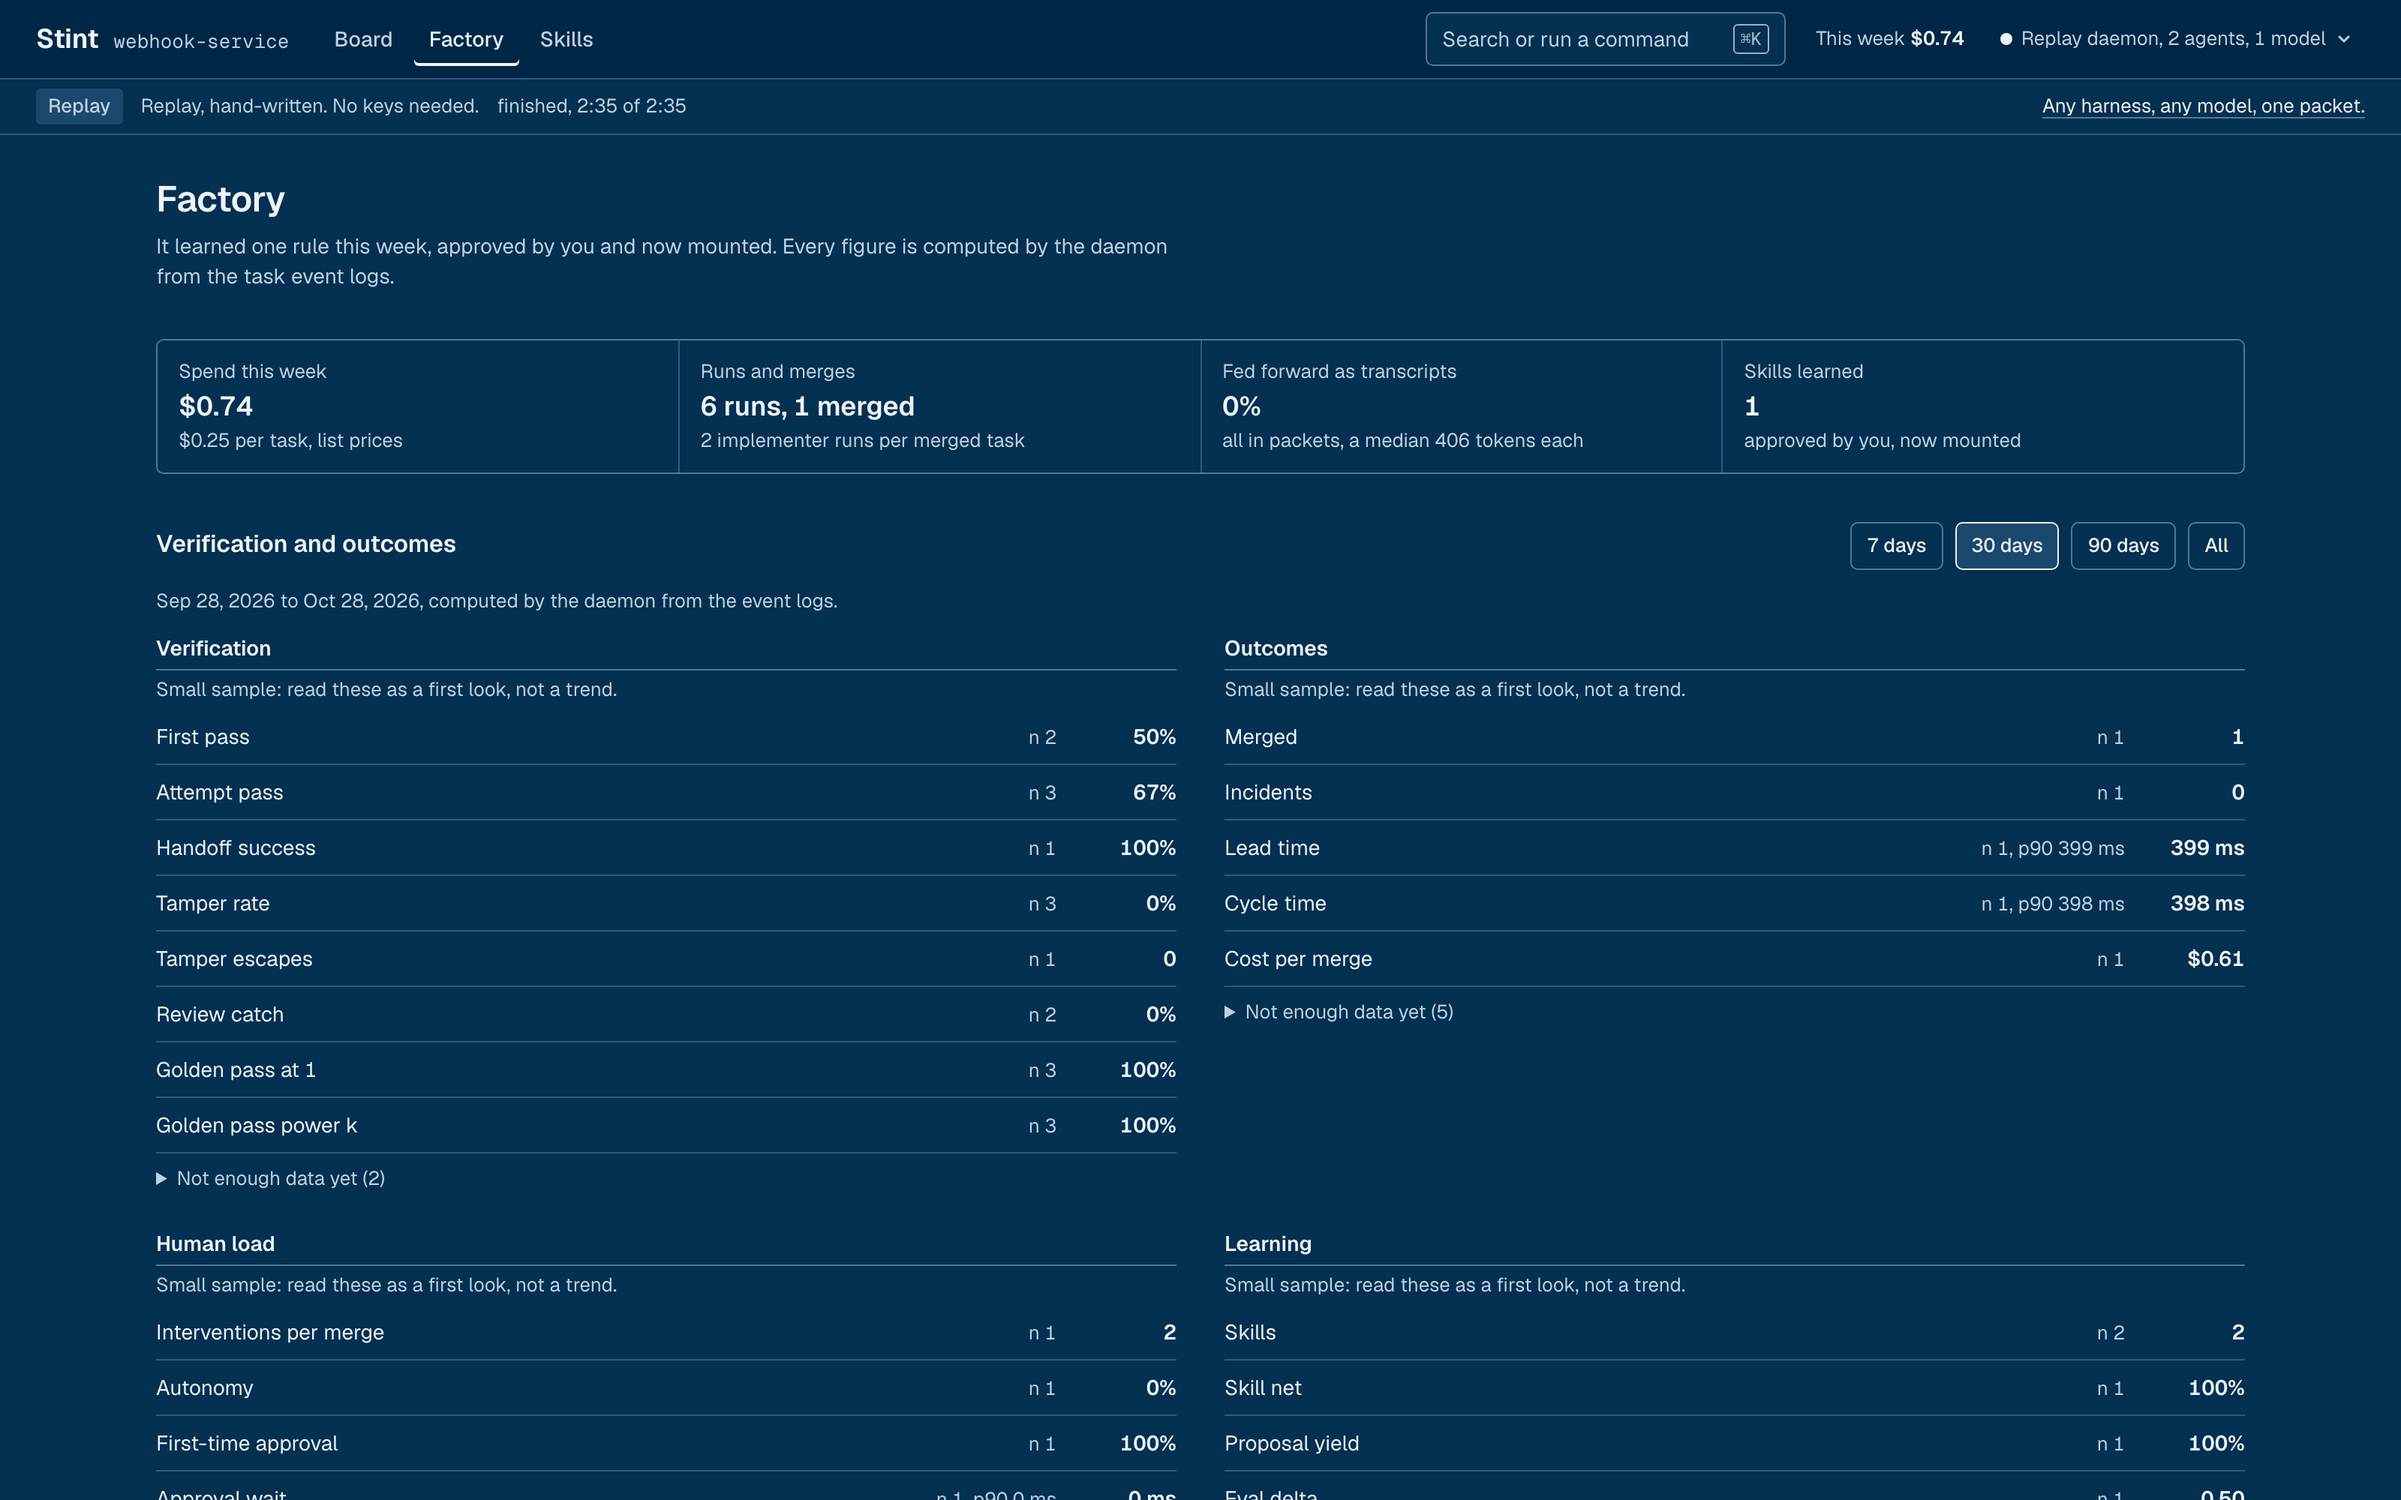
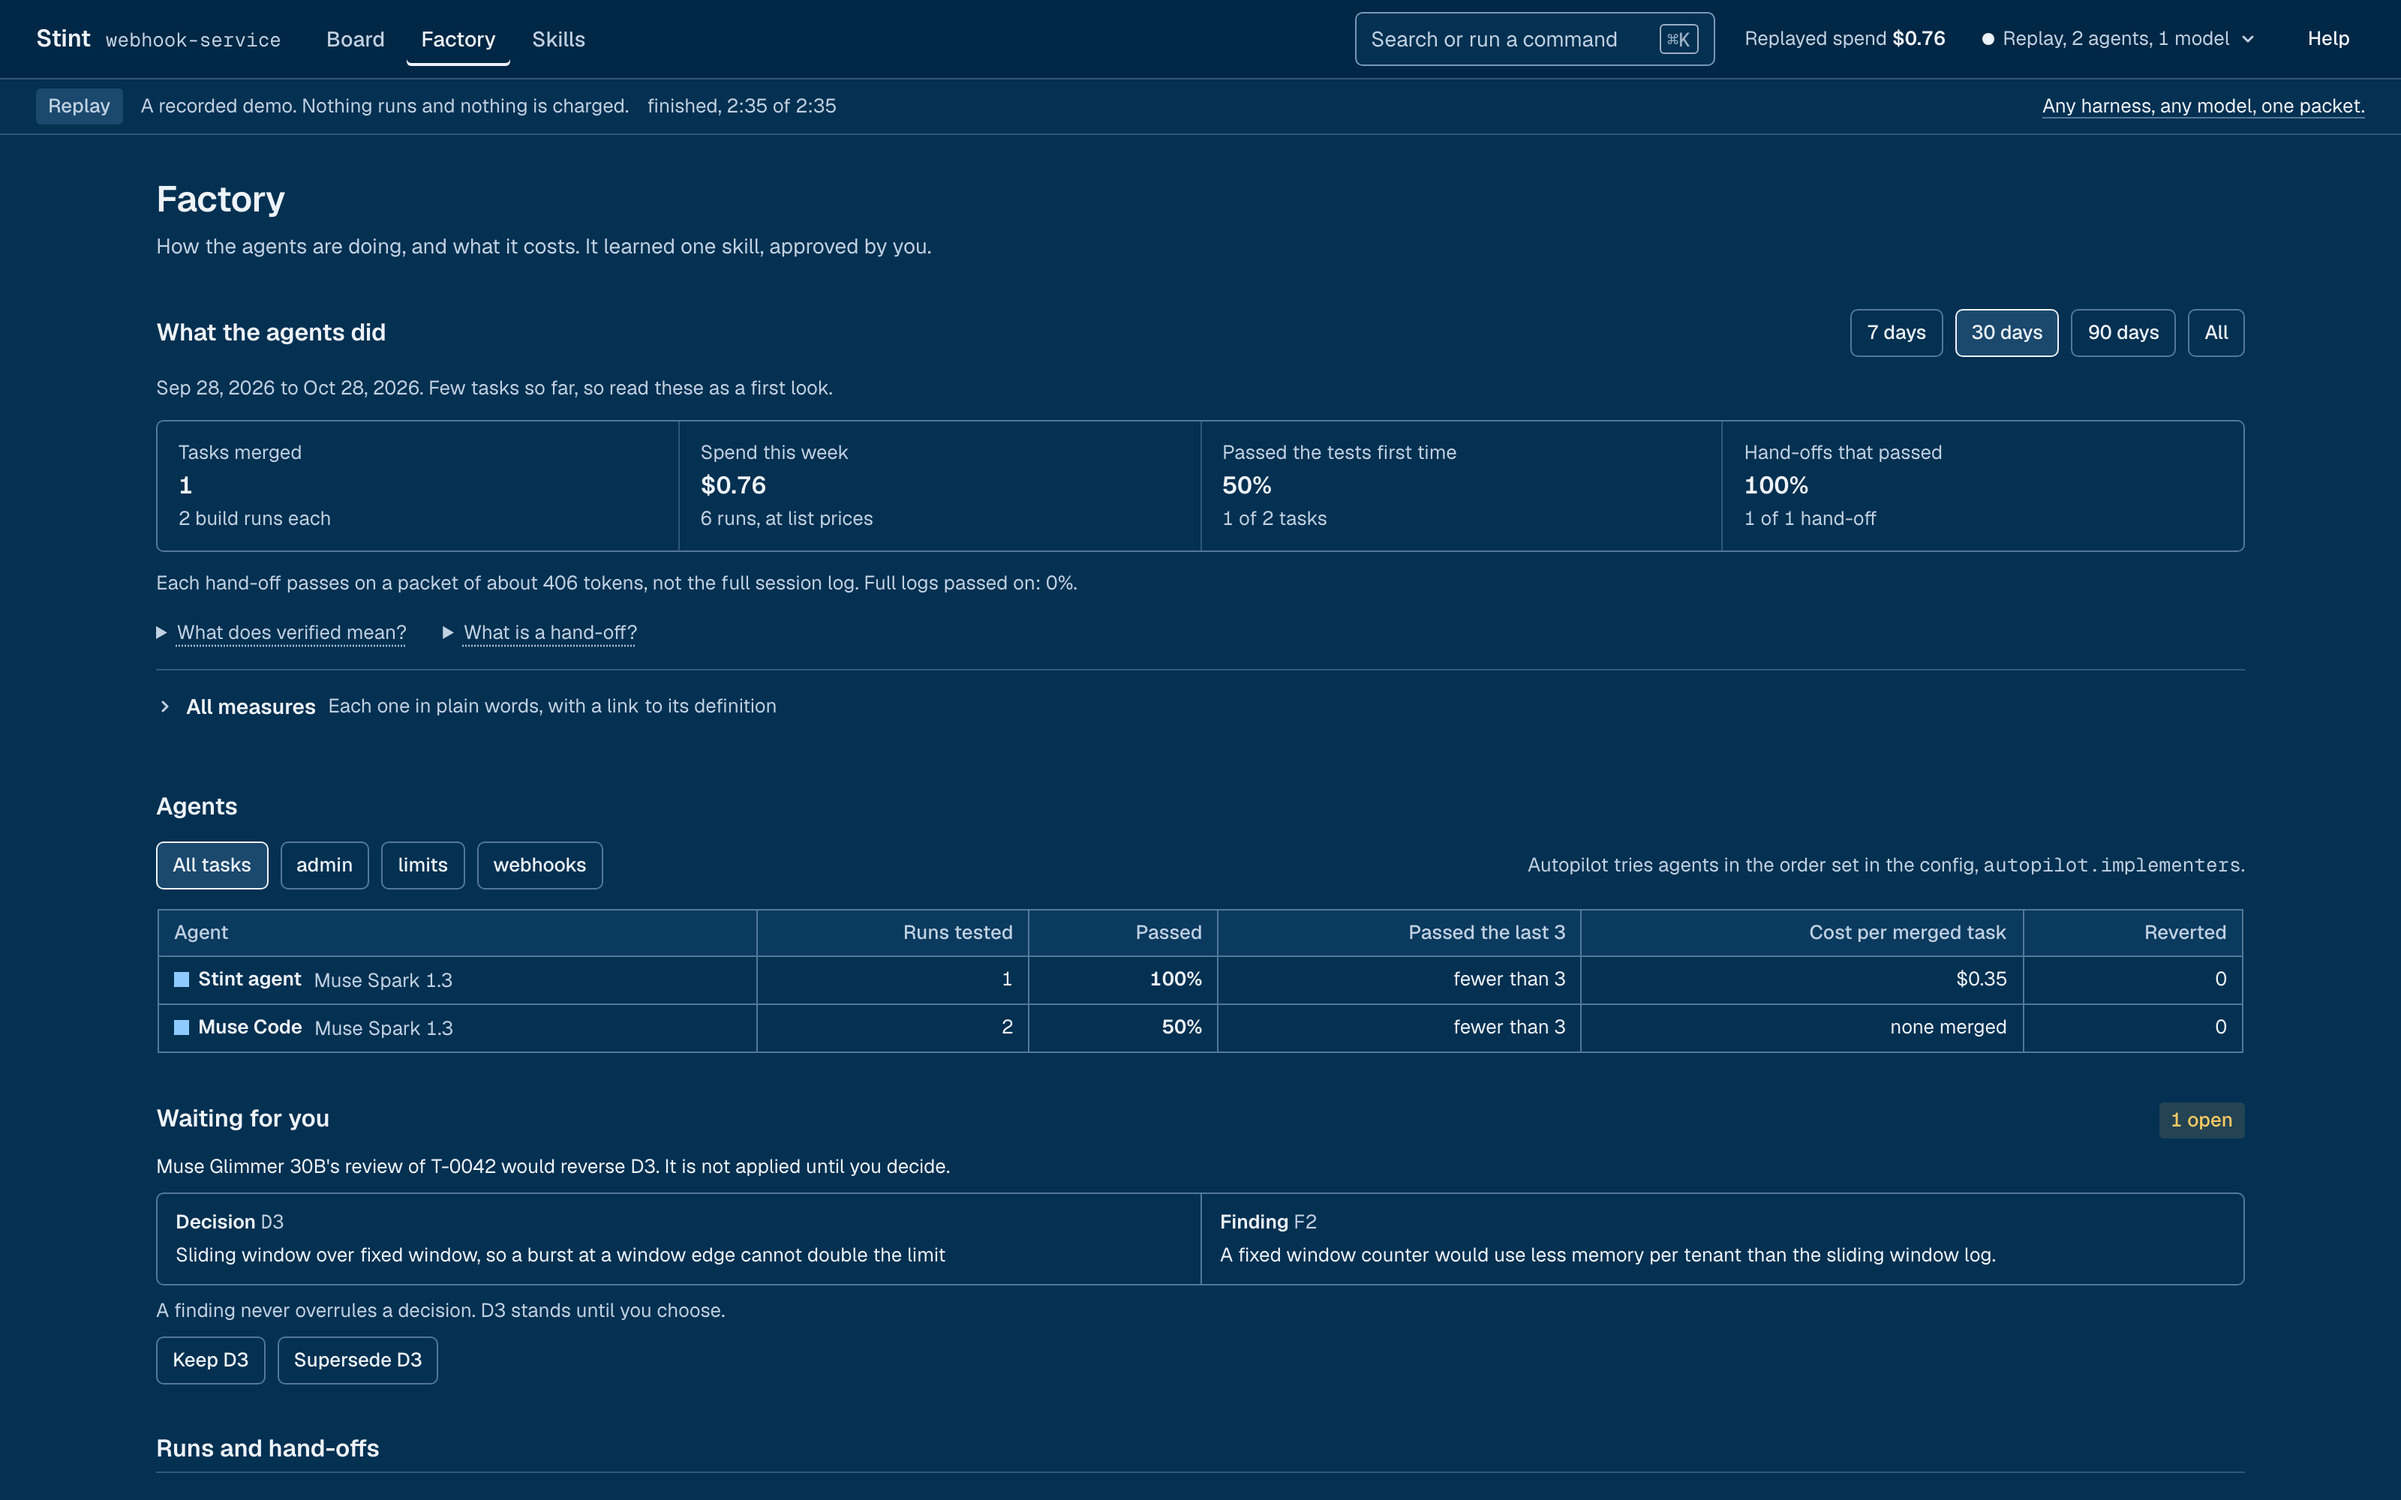
The README screenshots show the simplified UI; three tests no longer depend on what other tests created
Spec: R-007

diff --git a/apps/web/test/verification-lines.test.ts b/apps/web/test/verification-lines.test.ts
@@ -14,8 +14,8 @@ const base: Verification = {
   at: '2026-10-26T00:00:00.000Z',
 };
 
-test('the card shows the line "tests unchanged" (or the changed files and the decision that allowed them)', () => {
-  expect(tamperText({ ...base, tamper: null })).toBe('tests unchanged');
+test('the card says the locked tests are unchanged (or the changed files and the decision that allowed them)', () => {
+  expect(tamperText({ ...base, tamper: null })).toBe('Unchanged');
   expect(tamperText({ ...base, tamper: { files: ['test/x.test.ts'] } })).toContain('test/x.test.ts');
   expect(tamperText({ ...base, tamper: { files: ['test/x.test.ts'], allowedBy: 'D2: tests: test/x.test.ts changed because the cap moved' } })).toContain(
     'changed because the cap moved',
@@ -24,7 +24,7 @@ test('the card shows the line "tests unchanged" (or the changed files and the de
 });
 
 test('held-out scenarios and the coverage delta are shown on the card in plain words', () => {
-  expect(scenariosText({ ...base, scenarios: { passed: 2, failed: 1, names: ['holdout.test.ts'] } })).toBe('Held-out scenarios: 2 passed, 1 failed');
+  expect(scenariosText({ ...base, scenarios: { passed: 2, failed: 1, names: ['holdout.test.ts'] } })).toBe('Hidden scenarios, which the agent never sees: 2 passed, 1 failed');
   expect(scenariosText({ ...base, scenarios: null })).toBeNull();
   expect(coverageText({ ...base, coverage: { base: 50, branch: 80 } })).toBe('Coverage 50% on the base, 80% on the branch');
   expect(coverageText({ ...base, coverage: null, coverageReason: 'the runner gave no coverage summary' })).toContain('the runner gave no coverage summary');

diff --git a/apps/web/e2e/subtasks.spec.ts b/apps/web/e2e/subtasks.spec.ts
@@ -32,8 +32,21 @@ test('The board sentence links each task, names the decision that waits on T-004
   const sentence = page.getByTestId('board-sentence');
   await expect(sentence).toContainText('T-0043 needs you. 1 decision waits on T-0042.');
   await expect(page.locator('[data-task="T-0043"]').getByTestId('card-tests')).toHaveText('36 tests passed');
-  // an empty lane keeps its place in the order and says what will appear in it
-  await expect(page.getByTestId('lane-reviewing')).toContainText('A task is here while a second model reviews it.');
+  // an empty lane keeps its place in the order and says what will appear in it; other tests may have filled some lanes
+  const empty: Record<string, string> = {
+    planned: 'A new task waits here for an agent.',
+    building: 'A task is here while an agent works on it.',
+    verifying: 'A task is here while Stint runs its tests.',
+    reviewing: 'A task is here while a second model reviews it.',
+  };
+  let checked = 0;
+  for (const [id, text] of Object.entries(empty)) {
+    const lane = page.getByTestId(`lane-${id}`);
+    if ((await lane.getByTestId('task-card').count()) > 0) continue;
+    await expect(lane).toContainText(text);
+    checked++;
+  }
+  expect(checked).toBeGreaterThan(0);
   // the task that needs you is one link in the sentence: focus it and press Enter
   await sentence.getByRole('link', { name: 'T-0043' }).focus();
   await page.keyboard.press('Enter');

diff --git a/apps/web/e2e/cost.spec.ts b/apps/web/e2e/cost.spec.ts
@@ -14,6 +14,19 @@ test('The title block shows the task total and each run on the rail its cost aft
 test('The top bar and the Factory show the same spend for this week, learn and quiz spend included', async ({ page }) => {
   await page.goto('/factory');
   // the replay's runs are dated at playback, so their recorded spend falls in this week; the bar says it is replayed
-  await expect(page.getByTestId('week-cost')).toContainText('Replayed spend $0.76');
-  await expect(page.getByTestId('kpis')).toContainText('Spend this week$0.76');
+  // other tests add runs to the same daemon, so the figure is compared, not pinned; the daemon's tests pin $0.7581
+  await expect(page.getByTestId('week-cost')).toContainText(/Replayed spend ≈?\$\d+\.\d{2}/);
+  const amount = async (id: string) => /≈?\$\d+\.\d{2}/.exec((await page.getByTestId(id).textContent()) ?? '')?.[0];
+  await expect
+    .poll(
+      async () => {
+        await page.reload();
+        await expect(page.getByTestId('kpis')).toContainText('Spend this week');
+        await expect(page.getByTestId('week-cost')).toContainText('$');
+        const bar = await amount('week-cost');
+        return bar !== undefined && bar === (await amount('kpis'));
+      },
+      { timeout: 20_000 },
+    )
+    .toBe(true);
 });

diff --git a/apps/web/e2e/flows/queue.spec.ts b/apps/web/e2e/flows/queue.spec.ts
@@ -24,5 +24,5 @@ test('A skill the learn step proposed waits in the memory panel queue; Approve c
   await expect(row).toHaveCount(0);
   await expect.poll(async () => (await d.get<Array<{ id: string; status: string }>>('/api/skills')).find((s) => s.id === 'limits-live-in-one-place')?.status).toBe('probation');
   // the Skills page opened before the approval follows it from the event stream
-  await expect(skillsPage.locator('[data-list-skill="limits-live-in-one-place"]')).toContainText('probation');
+  await expect(skillsPage.locator('[data-list-skill="limits-live-in-one-place"]')).toContainText('on trial');
 });

diff --git a/README.md b/README.md
@@ -9,7 +9,7 @@
 
 Coding agents are good at a task until the session ends: the context fills up, the process dies, a rate limit hits, or you want a different agent for the next step. Stint makes the task, not the chat, the unit of work. The task is a folder in your repository that any agent can pick up. Every run gets its own git worktree, the daemon runs the tests itself, and when a run ends, however it ends, Stint writes a packet of a few hundred tokens that the next agent continues from. A local model reviews, and only you merge. It runs on Meta's Muse models by default, on your own machine.
 
-<p align="center"><img alt="The T-0042 task view: the title block with its state, spend and runs across the top, the run rail with the kill marked and the revision block under it on the left, the diff in the middle, and memory with a decision waiting for you on the right" src="assets/screenshot-task.png" width="900"></p>
+<p align="center"><img alt="The T-0042 task view: the title block with its state, spend and runs across the top; on the left the runs with a clock to rewind them and the revision block under them; on the right a decision waiting for you above the tabs, and the changed files beside the diff" src="assets/screenshot-task.png" width="900"></p>
 
 ## Three proofs
 
